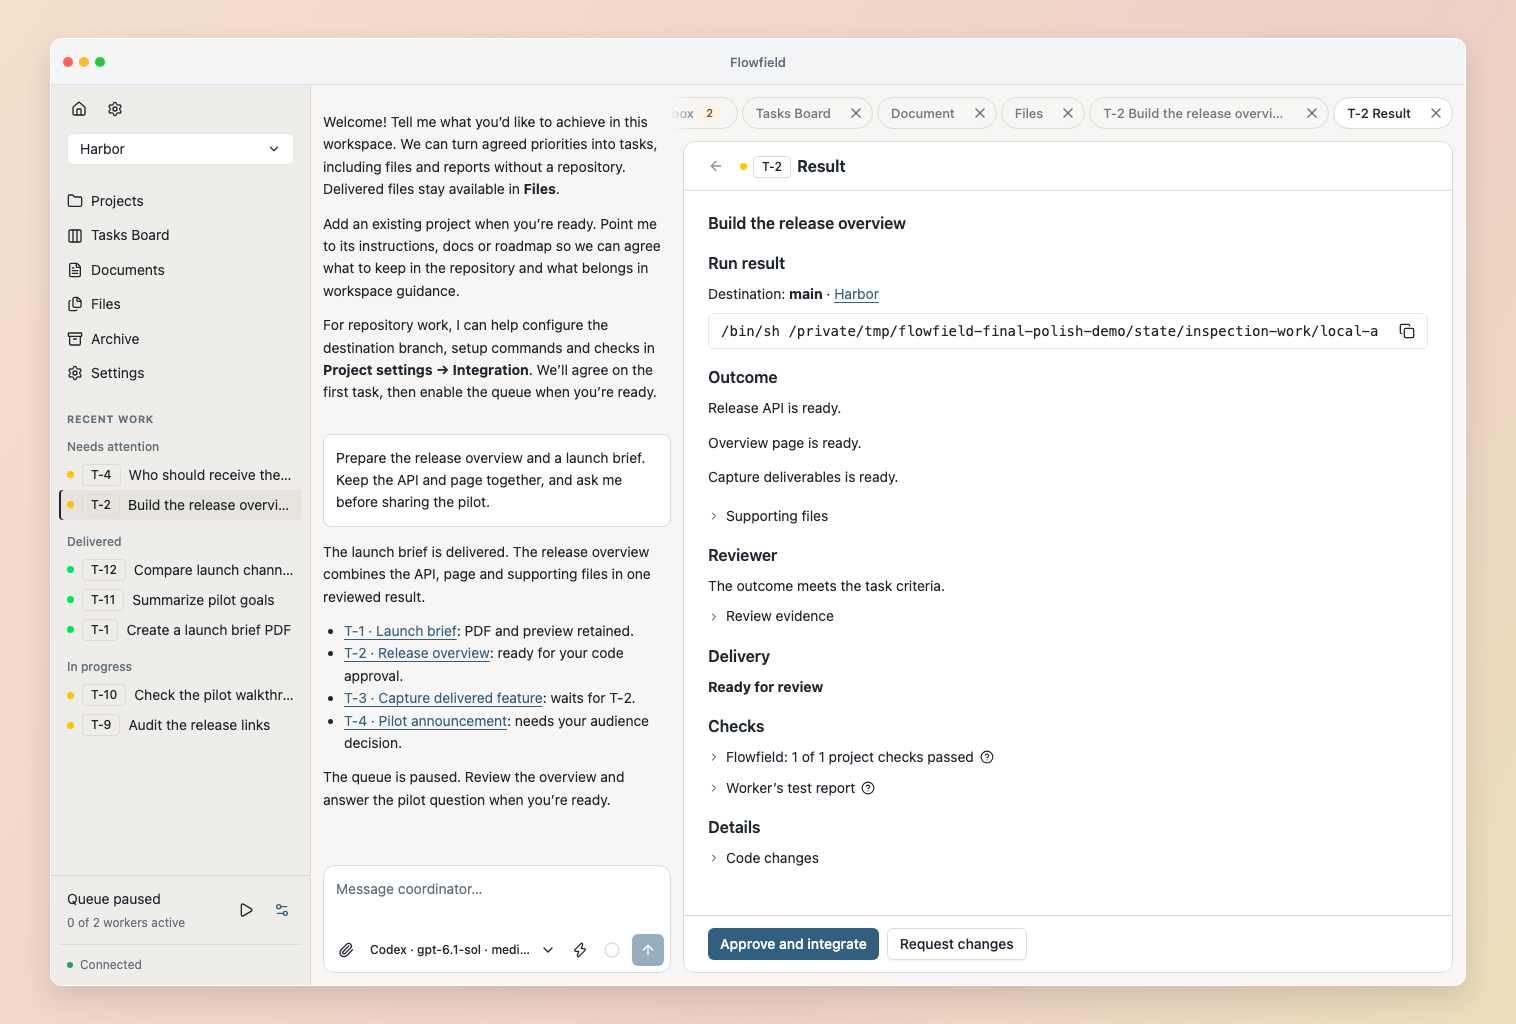
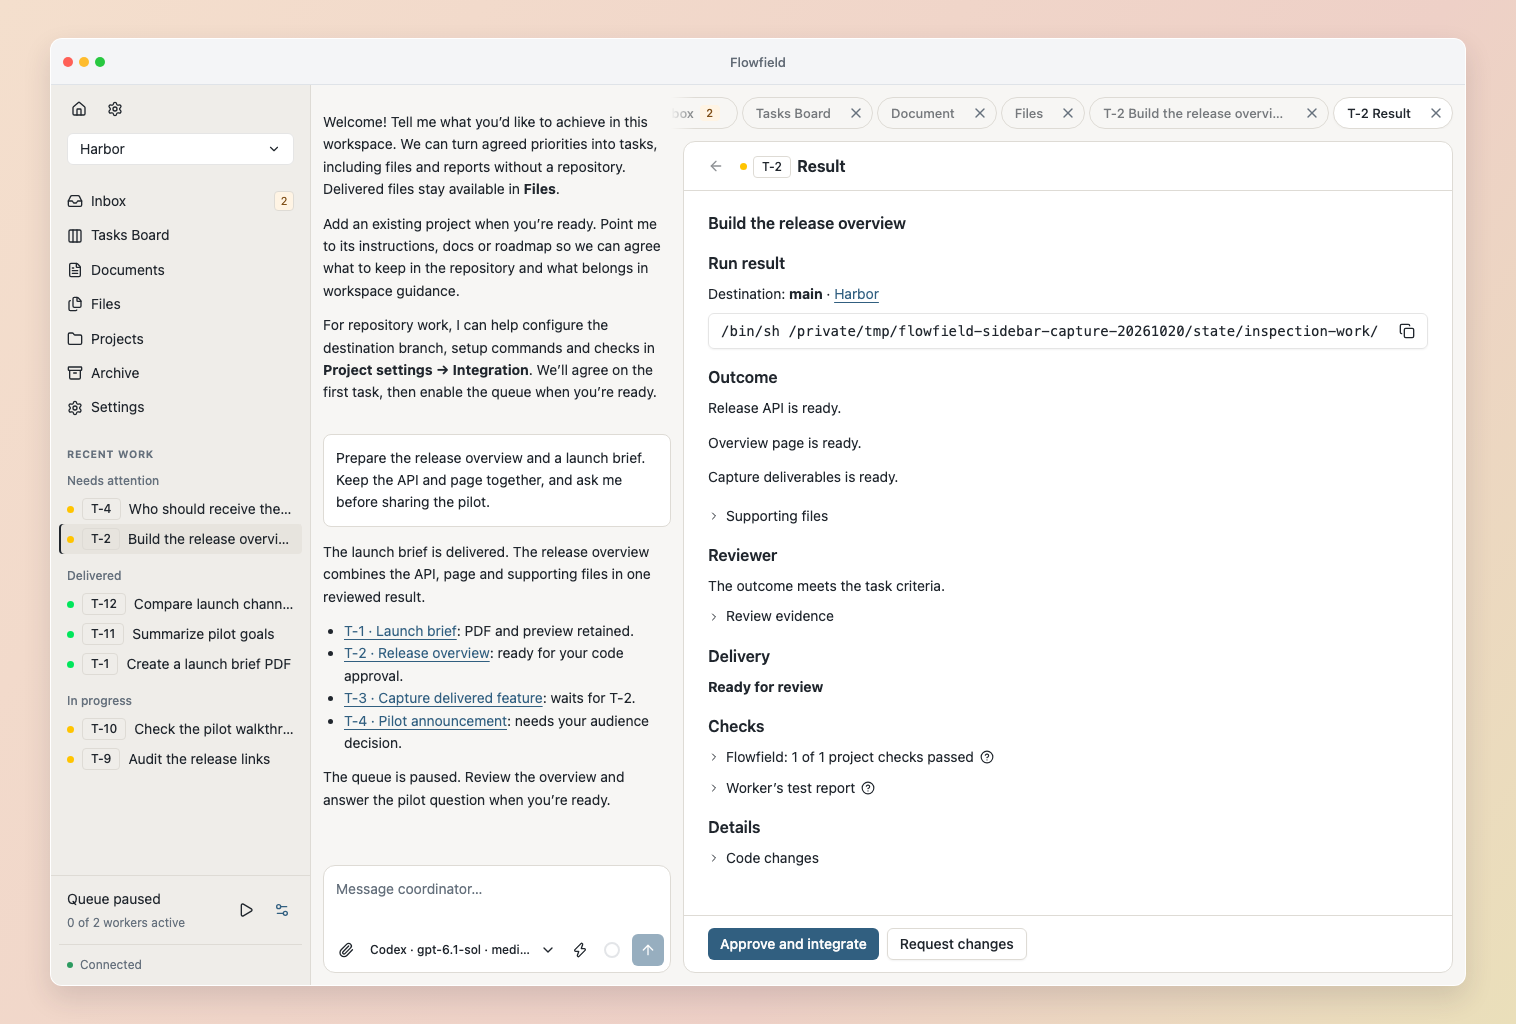
Polish file previews and put Inbox first in workspace navigation

Changed region(s): [[0.031, 0.3125, 0.186, 0.75], [0.6511, 0.3125, 0.8991, 0.3438], [0.062, 0.1875, 0.093, 0.2188]]

diff --git a/web/e2e/workspace-files.spec.ts b/web/e2e/workspace-files.spec.ts
@@ -115,8 +115,22 @@ test("workspace files organize retained task outputs without a project", async (
     name: "File details",
     exact: true,
   });
+  await files.getByRole("button", { name: /bundle.bin/ }).click();
   await expect(
-    details.getByRole("link", { name: "Source result", exact: true }),
+    details.getByText("No preview available", { exact: true }),
+  ).toBeVisible();
+  await expect(
+    details.getByRole("link", { name: "Open", exact: true }),
+  ).toBeVisible();
+  await expect(
+    details.getByRole("link", { name: "Download", exact: true }),
+  ).toBeVisible();
+  await expect(
+    details.getByRole("link", { name: "Source", exact: true }),
+  ).toHaveAttribute("href", `${base}/results/${value.result}`);
+  await files.getByRole("button", { name: /launch-report.txt/ }).click();
+  await expect(
+    details.getByRole("link", { name: "Source", exact: true }),
   ).toHaveAttribute("href", `${base}/results/${value.result}`);
   expect(await (await request.get(`/api${base}/projects`)).json()).toEqual([]);
   const download = page.waitForEvent("download");
@@ -201,9 +215,7 @@ test("workspace files organize retained task outputs without a project", async (
   }
   await page.setViewportSize({ width: 1440, height: 1000 });
   await page.emulateMedia({ colorScheme: "light" });
-  await details
-    .getByRole("link", { name: "Source result", exact: true })
-    .click();
+  await details.getByRole("link", { name: "Source", exact: true }).click();
   await expect(page).toHaveURL(`${base}/results/${value.result}`);
   await openResource(page, "Files");
   await details.getByRole("link", { name: "T-1", exact: true }).click();
@@ -233,11 +245,9 @@ test("workspace files organize retained task outputs without a project", async (
   ).toBeVisible();
   await files.getByRole("button", { name: /checklist-draft.txt/ }).click();
   await expect(
-    details.getByRole("link", { name: "Source result", exact: true }),
+    details.getByRole("link", { name: "Source", exact: true }),
   ).toHaveAttribute("href", `${base}/results/${value.partial_result}`);
-  await details
-    .getByRole("link", { name: "Source result", exact: true })
-    .click();
+  await details.getByRole("link", { name: "Source", exact: true }).click();
   await expect(page).toHaveURL(`${base}/results/${value.partial_result}`);
   await page.goto(`${base}/results/${value.review_result}`);
   await expect(

diff --git a/web/src/WorkNavigation.tsx b/web/src/WorkNavigation.tsx
@@ -5,6 +5,7 @@ import {
   FileText,
   Files,
   Folder,
+  Inbox,
   Settings,
 } from "lucide-react";
 import {
@@ -93,10 +94,11 @@ export function WorkNavigation({
     )
     .slice(0, 5);
   const resources = [
-    { name: "Projects", href: base + "/projects", Icon: Folder },
+    { name: "Inbox", href: base + "/inbox", Icon: Inbox },
     { name: "Tasks Board", href: base + "/tasks", Icon: Columns3 },
     { name: "Documents", href: base + "/documents", Icon: FileText },
     { name: "Files", href: base + "/files", Icon: Files },
+    { name: "Projects", href: base + "/projects", Icon: Folder },
     { name: "Archive", href: base + "/archive", Icon: Archive },
   ];
   return (
@@ -106,11 +108,25 @@ export function WorkNavigation({
           <a
             key={name}
             href={href}
-            aria-current={current === href ? "page" : undefined}
+            aria-label={
+              name === "Inbox" && board.needs_you_count
+                ? `Inbox ${board.needs_you_count}`
+                : undefined
+            }
+            aria-current={current.split("?")[0] === href ? "page" : undefined}
             onClick={(e) => followLink(e, () => open(href))}
           >
             <Icon size={16} />
             <span>{name}</span>
+            {name === "Inbox" && !!board.needs_you_count && (
+              <span
+                className="nav-count needs-attention ml-auto border"
+                aria-hidden="true"
+              >
+                {Math.min(99, board.needs_you_count)}
+                {board.needs_you_count > 99 ? "+" : ""}
+              </span>
+            )}
           </a>
         ))}
         <a

diff --git a/web/src/WorkspaceLabels.tsx b/web/src/WorkspaceLabels.tsx
@@ -50,6 +50,23 @@ export function WorkspaceLabels({
       <ResourceRetry resources={[labels]} />
       {!labels.data && !labels.error && <p>Loading labels…</p>}
       <ul className="divide-y rounded-md border" aria-label="Workspace labels">
+        {editing === "new" && (
+          <li className="px-3 py-2">
+            <LabelEditor
+              path={path}
+              onDirty={onDirty}
+              close={() => {
+                setEditing(null);
+                onDirty(false);
+              }}
+              saved={() => {
+                labels.retry();
+                setEditing(null);
+                onDirty(false);
+              }}
+            />
+          </li>
+        )}
         {labels.data
           ?.filter((label) => !label.deleted_at || editing === label.id)
           .map((label) => (
@@ -101,23 +118,6 @@ export function WorkspaceLabels({
               )}
             </li>
           ))}
-        {editing === "new" && (
-          <li className="px-3 py-2">
-            <LabelEditor
-              path={path}
-              onDirty={onDirty}
-              close={() => {
-                setEditing(null);
-                onDirty(false);
-              }}
-              saved={() => {
-                labels.retry();
-                setEditing(null);
-                onDirty(false);
-              }}
-            />
-          </li>
-        )}
       </ul>
     </DetailSection>
   );

diff --git a/web/src/Files.tsx b/web/src/Files.tsx
@@ -77,20 +77,14 @@ function FileDetails({ entry }: { entry: FileEntry }) {
       className="file-details min-h-0"
     >
       <p className="detail-metadata">
-        {sizeLabel(file.size)} · <Timestamp date={file.created_at} />
-      </p>
-      <div className="actions">
         <WorkspaceLink to={taskHref(file.workspace_id, { key: file.task_key })}>
           <Badge variant="outline">{file.task_key}</Badge>
         </WorkspaceLink>
-        {file.result_id && (
-          <WorkspaceLink to={resultHref(file.workspace_id, file.result_id)}>
-            Source result
-          </WorkspaceLink>
-        )}
-      </div>
+        {" · "}
+        {sizeLabel(file.size)} · <Timestamp date={file.created_at} />
+      </p>
       <div className="actions">
-        <Button size="sm" asChild>
+        <Button size="sm" variant="outline" asChild>
           <a href={contentHref(file)} target="_blank" rel="noreferrer">
             Open
           </a>
@@ -100,6 +94,13 @@ function FileDetails({ entry }: { entry: FileEntry }) {
             Download
           </a>
         </Button>
+        {file.result_id && (
+          <Button size="sm" variant="outline" asChild>
+            <WorkspaceLink to={resultHref(file.workspace_id, file.result_id)}>
+              Source
+            </WorkspaceLink>
+          </Button>
+        )}
       </div>
       <OutputPreview key={file.id} file={file} />
     </DetailSection>

diff --git a/web/e2e/workspace-board.spec.ts b/web/e2e/workspace-board.spec.ts
@@ -105,6 +105,21 @@ test("shared workspace board, project filters, Inbox and settings", async ({
   );
   await page.setViewportSize({ width: 1440, height: 1000 });
   await page.goto(base + "/tasks");
+  const resources = page.getByRole("navigation", {
+    name: "Workspace resources",
+  });
+  await expect(resources.getByRole("link")).toHaveText([
+    "Inbox2",
+    "Tasks Board",
+    "Documents",
+    "Files",
+    "Projects",
+    "Archive",
+    "Settings",
+  ]);
+  await expect(
+    resources.getByRole("link", { name: "Inbox 2", exact: true }),
+  ).toBeVisible();
   await expect(
     page
       .locator(".workspace-resource-content")
@@ -166,6 +181,13 @@ test("shared workspace board, project filters, Inbox and settings", async ({
   await expect(
     page.getByTestId("work").getByText("Site release scope?", { exact: true }),
   ).toHaveCount(0);
+  await openResource(page, "Projects");
+  await resources.getByRole("link", { name: "Inbox 2", exact: true }).click();
+  await expect(page).toHaveURL(`${base}/inbox`);
+  await expect(page.getByLabel("Filter by project")).toHaveValue("");
+  await expect(
+    page.getByTestId("work").getByText("Site release scope?", { exact: true }),
+  ).toBeVisible();
   await openResource(page, "Projects");
   await expect(page.getByRole("link", { name: /board-site/ })).toBeVisible();
   await openResource(page, "Settings");

diff --git a/web/src/TextPreview.tsx b/web/src/TextPreview.tsx
@@ -5,6 +5,7 @@ import { useResource } from "./useResource";
 import { ResourceRetry } from "./ResourceRetry";
 import type { components } from "./api-schema";
 import { CsvPreview } from "./CsvPreview";
+import { PreviewUnavailable } from "./PreviewUnavailable";
 
 type Node = ReturnType<typeof refractor.highlight>[number];
 function tokens(nodes: Node[]): ReactNode {
@@ -50,6 +51,7 @@ export default function TextPreview({
   return (
     <div className="text-preview content-stack min-h-0">
       <ResourceRetry resources={[resource]}>Retry preview</ResourceRetry>
+      {!compact && resource.error && !resource.data && <PreviewUnavailable />}
       {resource.loading && !resource.data && (
         <p role="status">Loading preview…</p>
       )}
@@ -80,10 +82,12 @@ export default function TextPreview({
               </p>
             )}
           </>
-        ) : (
+        ) : compact ? (
           <p className="detail-metadata">
             No text preview for this file. Open or download it.
           </p>
+        ) : (
+          <PreviewUnavailable />
         ))}
     </div>
   );

diff --git a/web/src/OutputPreview.tsx b/web/src/OutputPreview.tsx
@@ -1,5 +1,6 @@
 import { lazy, Suspense, useState } from "react";
 import type { components } from "./api-schema";
+import { PreviewUnavailable } from "./PreviewUnavailable";
 
 type OutputFile = components["schemas"]["OutputFile"];
 const TextPreview = lazy(() => import("./TextPreview"));
@@ -34,12 +35,15 @@ export function OutputPreview({
         <TextPreview file={file} compact={compact} />
       </Suspense>
     );
-  if (!imageTypes.has(file.media_type)) return null;
+  if (!imageTypes.has(file.media_type))
+    return compact ? null : <PreviewUnavailable />;
   if (failed)
-    return (
+    return compact ? (
       <p className="detail-metadata">
         Preview unavailable. Open or download the file.
       </p>
+    ) : (
+      <PreviewUnavailable />
     );
   return (
     <a

diff --git a/web/e2e/workspace-labels.spec.ts b/web/e2e/workspace-labels.spec.ts
@@ -100,6 +100,13 @@ test("coordinator labels update read-only task headers and preserve deletion his
   ).toContainText("New or expanded product behavior.");
   await page.getByRole("button", { name: "Add label", exact: true }).click();
   const create = page.getByRole("form", { name: "New label" });
+  await expect(
+    page
+      .getByRole("list", { name: "Workspace labels" })
+      .locator(":scope > li")
+      .first()
+      .getByRole("form", { name: "New label" }),
+  ).toBeVisible();
   await create.getByLabel("Name", { exact: true }).fill("Customer request");
   await create
     .getByLabel("Guidance", { exact: true })

diff --git a/web/src/PreviewUnavailable.tsx b/web/src/PreviewUnavailable.tsx
@@ -1,0 +1,7 @@
+export function PreviewUnavailable() {
+  return (
+    <div className="flex min-h-48 items-center justify-center rounded-md border bg-muted p-4 text-center text-sm">
+      <p>No preview available</p>
+    </div>
+  );
+}

diff --git a/tests/file_browser_fixture.py b/tests/file_browser_fixture.py
@@ -35,6 +35,7 @@ def seed(directory):
                 "const message = '<img src=x onerror=alert(1)>';\nconsole.log(message);\n"
             ),
             "preview.md": "# Launch notes\n\n- Read the report\n\n<script>alert(1)</script>\n",
+            "bundle.bin": "Retained output without a supported inline preview.",
         },
     )
     unfinished = task(store, scope, title="Prepare a launch checklist")
